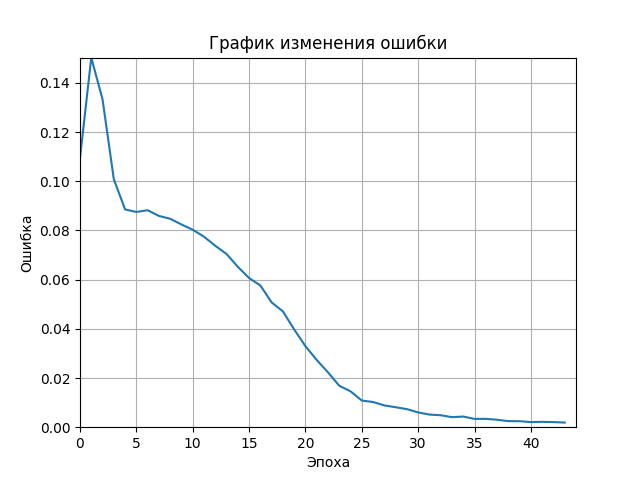
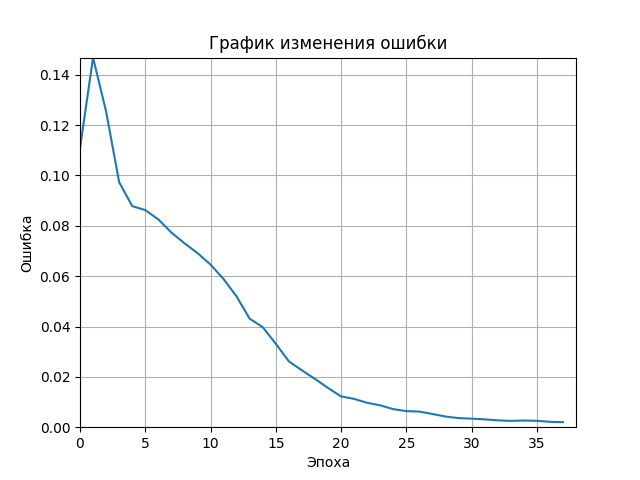
Создана командная строка для работы с нейронной сетью.

diff --git a/NeuralNet/src/Include/Input.hpp b/NeuralNet/src/Include/Input.hpp
@@ -2,10 +2,8 @@
 
 #include "Library.hpp"
 
-#define SET_WEIGHTS 0
-
 Net::fmatrix weights =
 {
-	{0.0888453, 0.0329869, 0.0607932, -0.020124, 0.0598727, 0.0228184, -0.0419006, -0.0369425, -0.0903802, 0.0085395, 0.0134751, 0.0693822, -0.0163551, -0.060846, 0.0292375, 0.0176919, -0.00281952, 0.0797452, -0.0327591, -0.0568715, -0.0476399, 0.0638542, -0.100842, 0.0157974, -0.0713388, -0.00536165, 0.061857, -0.052978, 0.0915369, 0.0944295, -0.0881988, -0.00676353, -0.0109027, 0.0743151, -0.0399984, 0.0464306, -0.0330085, 0.049703, 0.0492345, 0.102736, 0.0329486, 0.0839312, 0.0646352, -0.0107225, -0.0871174, -0.00661559, 0.089704, 0.0180297, 0.047035, -0.0578452, -0.0218603, -0.0107487, 0.0190821, 0.0594622, 0.0556629, -0.0457566, 0.0019462, 0.105129, -0.0452884, 0.0516091, 0.106399, 0.0730708, -0.0556239, 0.0939549, 0.0720605, -0.0594657, 0.088908, 0.0429764, -0.047495, -0.0953909, 0.083087, -0.080947, -0.0195497, -0.00296714, -0.0715632, -0.091477, 0.0480926, 0.0637178, 0.117428, -0.0997601, -0.034981, -0.0179209, 0.0118343, 0.0698328, 0.0980132, 0.0574274, 0.0730834, 0.101035, 0.0659213, 0.037005, -0.0655474, 0.0652924, 0.0338094, -0.0652138, 0.0149846, 0.0473617, -0.101213, 0.0578417, -0.0798616, -0.0767931, -0.0288222, -0.0801833, 0.0879771, 0.0712562, -0.00135013, -0.0251777, -0.0874942, -0.00893328, 0.0939102, -0.0467411, 0.0798503, 0.0382085, 0.0672034, -0.02718, -0.0535025, 0.0468324, 0.028788, 0.0486016, -0.0507849, 0.00809492, 0.101413, 0.00969674, 0.0216929, -0.103096, 0.00675225, 0.028756, 0.0564186, -0.0170569, -0.0138907, -0.0686176, 0.0367757, -0.0119586, -0.0429356, -0.0411139, -0.0109077, 0.0181163, -0.0414344, 0.0229514, -0.00568599, -0.0901155, -0.0895219, 0.00759843, -0.0419476, 0.0582083, 0.0336177, 0.00522175, 0.0280464, -0.087124, -0.0882843, -0.0237492, 0.0925998, 0.0592185, 0.0368746, 0.0915896, -0.0991602, -0.0960722, -0.0662153, 0.0975093, 0.0703328, -0.00228043, -0.0885113, 0.0398539, -0.211783, 0.105472, 0.191318, 0.257926, -0.0178655, 0.233272, 0.0422627, 0.047753, 0.122209, 0.116399, 0.0559875, 0.141157, 0.112385, 0.184378, -0.172941, 0.0333127, -0.13881, 0.102661, -0.399371, 0.211874, -0.503642, 0.129846, 0.172311, 0.404851, 0.0220201, 0.400091, -0.00887439, 0.0379063, 0.244549, 0.420148, -0.115449, 0.467662, -0.0211, 0.187527, -0.596403, 0.128751, -0.436965, 0.267904, -0.046511, -0.136161, 0.0531668, -0.141105, -0.118762, -0.0598734, -0.148284, 0.0152859, -0.114657, -0.0704235, -0.0334208, 0.0221052, -0.125806, -0.0294351, -0.0269745, -0.151987, 0.0433112, -0.113915, -0.0875715, -0.02222, -0.409466, 0.178833, -0.459339, 0.283658, 0.178561, 0.404353, 0.0487321, 0.302336, 0.0854233, 0.0886025, 0.179692, 0.40478, -0.0512187, 0.480353, 0.0403281, 0.240245, -0.407266, -0.0171101, -0.29054, 0.141695, -0.108126, 0.0193892, -0.0949606, 0.0803524, -0.00200323, 0.210617, -0.0661663, 0.17353, 0.0138894, 0.0635211, 0.0160346, 0.0530802, 0.0321002, 0.0684054, 0.0167811, 0.142881, -0.105284, 0.0971503, -0.111713, 0.156565, 0.00816487, 0.0157025, -0.131921, -0.0315682, -0.075454, 0.0682839, -0.123594, 0.0750578, -0.0212048, -0.0274487, 0.0209047, -0.0693621, 0.0503138, -0.0182358, -0.0717414, -0.0911757, -0.080817, -0.0168403, -0.0225555, 0.0557204, -0.0870592, 0.0194896, -0.0841034, 0.0753372, -0.0170845, -0.0288023, -0.0169519, -0.068146, -0.0130244, 0.0744091, -0.0708996, -0.0338883, -0.0358839, 0.0761673, -0.0692684, -0.0840077, -0.0944454, 0.0885158, 0.0496873, 0.0714267, -0.410157, 0.254123, -0.655122, 0.146174, 0.175712, 0.416591, 0.000433858, 0.549618, -0.0302471, 0.0702123, 0.306425, 0.413793, -0.015918, 0.567284, -0.0593731, 0.144701, -0.642619, 0.0803886, -0.374348, 0.343401, 0.480031, -0.32254, 0.531409, -0.345814, -0.330794, -0.477297, -0.167357, -0.465368, -0.0288917, -0.241338, -0.338702, -0.389541, -0.0744826, -0.444006, -0.0445143, -0.201298, 0.476228, -0.163836, 0.263292, -0.355371, -0.0853871, 0.0324509, -0.0303767, 0.00302216, -0.0484793, 0.107279, 0.0041402, 0.0971166, 0.0203445, -0.00958371, 0.048435, -0.013642, 0.0438898, 0.0771389, -0.0290997, 0.059604, -0.125239, -0.0841035, -0.110439, -0.0811215, 0.34762, -0.236807, 0.516427, -0.188105, -0.149584, -0.421678, -0.124036, -0.403811, -0.0264702, -0.0549043, -0.341497, -0.358928, 0.0164843, -0.363865, 0.036235, -0.127685, 0.502723, -0.213657, 0.29479, -0.214531, -0.445295, 0.25378, -0.612237, 0.161577, 0.281405, 0.482149, -0.0446474, 0.326657, 0.0661812, 0.0433405, 0.321268, 0.325235, 0.0198366, 0.489339, -0.0406036, 0.170133, -0.592569, 0.0208875, -0.415423, 0.300552, -0.10836, 0.0058409, -0.106245, -0.0320974, 0.0546686, -0.0246688, 0.0255291, -0.0354351, -0.00244779, -0.0540607, -0.0455169, 0.0530227, 0.0125012, 0.047331, -0.0929651, 0.0870971, -0.0975992, 0.0058989, -0.0659095, 0.0798497, -0.062339, -0.00774837, 0.0965339, 0.00699092, -0.0239073, -0.0728767, -0.0479184, -0.00509234, 0.0163592, -0.0921448, -0.104723, 0.00875992, -0.0819766, -0.0970204, 0.0326102, 0.0730968, 0.0668003, 0.0338015, 0.0599394, -0.00304218, -0.0582473, -0.00728127, -0.00125304, -0.115871, 0.000546641, -0.0814791, -0.0915922, -0.053277, -0.170015, -0.0483734, 0.0686165, -0.0559309, -0.0182875, -0.00822468, -0.181357, -0.0752805, 0.0093776, -0.16634, 0.00905476, -0.0635141, -0.0391007, 0.0338339, -0.105181, -0.0300081, -0.057975, 0.110838, 0.0741279, -0.0124348, -0.0809584, -0.0185791, 0.0863766, 0.000140295, -0.0393741, 0.105383, 0.0256524, 0.00103879, -0.153058, -0.0763513, -0.0547766, 0.100889, 0.0681863, -0.0867921, 0.134804, 0.0843177, 0.0233656, 0.0209954, 0.078577, -0.0532626, -0.0671727, -0.046182, 0.043931, -0.0619549, -0.0510193, 0.0861876, -0.0334982, -0.0909381, -0.0152278, 0.101576, 0.0941588, -0.050176, -0.193231, -0.00968637, -0.113706, -0.0136482, 0.0351611, 0.115194, -0.0428482, 0.206262, 0.00550068, 0.0395539, -0.00741952, 0.184253, -0.0188004, 0.165887, 0.0172102, 0.102451, -0.0764934, 0.0204066, -0.168478, 0.158407, 0.0124685, 0.0404637, 0.0378095, -0.0654528, -0.0813472, -0.11573, -0.0542604, -0.0497974, -0.0400624, -0.0475394, -0.105915, 0.024125, -0.088482, -0.100515, -0.0940933, -0.0736858, -0.0173248, -0.0929635, 0.0861766, -0.0178657, 0.00292821, -0.00563352, 0.0855601, -0.0921451, 0.0197254, 0.0421412, -0.0577872, -0.0571721, -0.0541568, -0.0452515, 0.0265644, 0.0605159, -0.058496, -0.0306296, 0.0103272, 0.0678252, 0.00448779, -0.00482193, -0.0944346, -0.0410212, 0.58206, -0.234912, 0.629359, -0.260675, -0.332138, -0.478137, -0.0505989, -0.426694, -0.112215, -0.218049, -0.261171, -0.381348, -0.144191, -0.493646, -0.133659, -0.322151, 0.581495, -0.157091, 0.455154, -0.357356, -0.397266, 0.293115, -0.439037, 0.11353, 0.271105, 0.418164, -0.0708996, 0.423058, -0.0127493, 0.125542, 0.231599, 0.203237, -0.0520799, 0.313553, -0.00893574, 0.193582, -0.403705, -0.045178, -0.215593, 0.190898, 0.0893205, 0.026095, -0.106293, -0.0630157, -0.0333002, -0.0594797, 0.0255468, -0.0736447, 0.00386083, -0.0554424, -0.0436381, 0.0108357, -0.107051, 0.0863408, -0.0609942, -0.044546, 0.034579, -0.0925449, -0.0820402, -0.103263, 0.0924646, -0.02894, 0.0283185, 0.00637497, 0.0594279, -0.0136375, 0.022886, 0.0207154, -0.0692777, 0.00314112, -0.0825535, 0.0382754, 0.0181923, -0.0293369, -0.0676302, 0.0710084, 0.0889598, 0.088652, -0.0256802, 0.071734, -0.0506321, 0.046838, 0.0253956, -0.0632074, -0.00280867, 0.00850569, -0.0603849, 0.0723101, -0.0890519, -0.0297602, 0.022299, -0.0289199, -0.00934921, 0.0349343, 0.00535873, -0.01823, 0.0828984, -0.0590806, 0.107603, 0.111856, -0.434893, 0.323601, -0.664908, 0.248564, 0.306673, 0.57457, -0.12854, 0.37963, -0.055702, 0.0951841, 0.336249, 0.445904, -0.082093, 0.594826, -0.0124599, 0.228572, -0.541371, 0.0522944, -0.505726, 0.336522, 0.324315, -0.274481, 0.517412, -0.122774, -0.150807, -0.335434, -0.055886, -0.304063, -0.106054, -0.102161, -0.287767, -0.289339, 0.00953044, -0.415795, -0.123621, -0.194087, 0.534762, -0.0424078, 0.332624, -0.209185, 0.451021, -0.323232, 0.454327, -0.286818, -0.14901, -0.322855, -0.0516005, -0.268677, -0.0606078, -0.0806481, -0.329113, -0.341576, -0.129393, -0.31696, -0.0755499, -0.247737, 0.477414, -0.061868, 0.394614, -0.186139, 0.338901, -0.0623334, 0.384604, -0.0768086, -0.199703, -0.225166, 0.0222358, -0.225249, -0.0411897, -0.0857669, -0.11336, -0.217674, -0.112168, -0.248625, -0.148418, -0.0438854, 0.266468, -0.175357, 0.22649, -0.0967671, -0.0185531, 0.0011925, 0.0202181, -0.0425175, -0.0752229, 0.0337344, -0.195647, -0.0950805, -0.175944, -0.101743, -0.131276, -0.0956029, -0.0818586, -0.113159, -0.0876516, -0.0658592, 0.0425955, -0.168288, 0.0178889, -0.153352, -0.00733079, -0.0858936, -0.0586535, 0.00587095, -0.140074, -0.00435984, -0.062299, -0.0414182, -0.182049, -0.135999, -0.0883138, 0.0278799, -0.190612, 0.0315245, -0.125338, -0.0628652, -0.0701922, -0.0830899, 0.00874493, -0.0773163, -0.0263258, -0.159373, -0.0735476, -0.0890004, -0.142565, -0.0384362, -0.0570704, 0.0414416, -0.0691865, -0.222677, -0.114474, -0.0830254, -0.135551, -0.0929454, -0.147801, -0.0577109, -0.0636202, -0.0236108, 0.0271928, -0.0632738, 0.182674, -0.193577, 0.316329, -0.186725, -0.0326918, -0.201405, -0.0151613, -0.229136, -0.120258, -0.07793, -0.0346107, -0.217424, 0.0303206, -0.213883, -0.0938804, -0.185349, 0.338497, -0.107963, 0.294274, -0.17929, 0.371374, -0.211024, 0.259239, -0.155347, -0.254354, -0.386506, -0.0629723, -0.396392, -0.135854, -0.13997, -0.122522, -0.329256, 0.0015973, -0.299, -0.134617, -0.210719, 0.419631, -0.159946, 0.247049, -0.14718, 0.0273422, 0.0453255, 0.0573881, -0.0559766, 0.0384, 0.0587331, 0.061838, 0.00931902, 0.0764507, 0.0299697, -0.080643, 0.00100883, -0.0146682, -0.0190178, -0.0189175, 0.0412887, -0.0113347, 0.0443811, 0.0804805, 0.0127509, 0.0533188, -0.0516824, 0.0156884, 0.0945981, -0.0335555, -0.0141817, -0.0448049, 0.0655518, 0.0762851, 0.0611071, -0.0155812, 0.0698821, -0.0872299, 0.064274, -0.00646243, -0.0557743, 0.00389496, -0.036771, 0.0428028, -0.0288745, -0.0392543, -0.0254036, -0.0714072, 0.00765405, 0.0549582, -0.072222, -0.077274, -0.0765169, -0.0184686, 0.084793, -0.0519677, -0.00223315, -0.0402351, -0.0083917, -0.00871094, -0.0367161, -0.0482276, -0.0128311, -0.0657995, -0.050488, -0.0570477, -0.0161524, -0.110423, -0.036754, 0.050719, 0.134869, 0.0515461, 0.15197, 0.042661, 0.0825519, 0.137599, 0.158721, -0.0983563, 0.0840589, 0.0346137, 0.133952, -0.180682, 0.0839189, -0.0837417, 0.0229015, -0.00841522, -0.0366531, 0.055372, -0.0176972, 0.02369, -0.109383, 0.0475703, -0.0520458, 0.0372251, -0.106793, -0.000694819, 0.0144049, 0.0680378, -0.0636923, -0.0573091, -0.0945065, 0.032759, -0.0959871, 0.0448339, -0.0850844, 0.0682836, -0.0132186, -0.049564, -0.0353369, 0.0467807, 0.0261822, -0.133535, -0.0604852, 0.00151831, -0.0644657, -0.00389132, 0.0101737, -0.119677, -0.00874438, -0.0451363, -0.0238332, -0.0211069, -0.0877261, 0.0598734, -0.0883505, 0.0012465, -0.078982, 0.0319034, -0.057944, 0.000210764, -0.0644079, -0.0176284, -0.0031851, 0.0223781, -0.0615463, 0.03534, -0.107322, -0.0842903, 0.0587348, -0.0462792, 0.00911836, 0.0210752, -0.00339569, -0.0548502, 0.00803549},
-	{-16.475, 1.61022, 1.99611, 34.4514, -48.8673, -0.819213, -23.9288, -11.593, 2.70517, -11.9683, -2.87129, -0.641978, -11.5388, -11.1397, -0.735677, -13.5191, 33.0243, -1.67267, -2.63196, 9.42387, 0.0369617, -10.1485, 33.2181, -1.48451, 25.9349, -39.0249, -0.0603055, -23.3797, 39.041, -0.296799, -23.4175, 18.4754, -0.899496, 59.0288, -59.0951, -1.30822, -18.0978, 24.4086, 0.0712946, 41.102, -21.0069, -1.72427, 46.6753, -51.9459, -0.0477443, -70.4163, 61.2591, -0.672368, -8.99338, -23.7897, 2.59372, 22.0704, -31.4032, -0.230104, -21.7458, 36.3755, 1.69114, -28.192, 17.2234, -0.874323}
+	{0.0866762, -0.00792785, -0.0975798, -0.0785434, 0.0160742, -0.0477219, -0.0511323, 0.0902031, 0.0732728, -0.0513772, 0.0865228, -0.0515019, -0.0671272, -0.0505245, -0.03316, 0.0875438, -0.0255866, -0.00457727, 0.0251436, 0.138647, 0.0476982, -0.0274717, 0.111498, -0.0635629, -0.0490845, 0.0461052, 0.0240554, -0.0597974, 0.00565295, 0.0991803, 0.0651181, 0.0451909, -0.00830246, 0.0953912, -0.0143226, 0.022315, -0.00720639, 0.0811833, 0.0145478, 0.0789655, 0.104592, 0.0335671, 0.0293116, 0.0521393, 0.0202352, 0.00277552, -0.0537189, -0.0854954, 0.0201207, -0.00382206, 0.0109879, 0.0830101, 0.064561, -0.0787919, 0.0825191, 0.0934809, 0.0856944, -0.0493944, -0.0398271, -0.0754562, -0.0422659, 0.0502075, 0.0213038, 0.0357727, -0.0506139, 0.0799693, -0.0670098, -0.00721193, 0.116596, -0.045856, -0.00376268, -0.0820758, 0.0576883, -0.0368344, 0.0679203, 0.0801333, 0.012721, 0.055573, 0.0256795, 0.0409697, 0.056959, 0.0268674, 0.0796875, 0.0493065, -0.0447279, 0.0729896, -0.083911, -0.0589574, -0.0485805, 0.0105328, 0.0375815, -0.0610947, 0.0258591, 0.0594313, 0.00804859, -0.0473766, -0.0346565, 0.0932167, 0.116688, 0.0295391, 0.0466345, 0.0622039, 0.0224272, -0.0247162, -0.0665249, 0.0755896, -0.0323697, 0.0615843, -0.0749183, -0.00907565, 0.0507233, -0.0267185, -0.083273, -0.0344248, 0.10249, -0.0197111, -0.0819625, 0.0132332, -0.0441817, -0.0236327, 0.0523245, -0.0697749, 0.0188519, -0.0841022, 0.0791236, 0.0461455, 0.100218, -0.0478836, 0.114456, 0.00785827, 0.0162361, 0.0861071, -0.0360857, 0.0840756, 0.0782947, 0.060194, 0.00863855, -0.0179264, -0.0570995, -0.099412, -0.00849955, -0.0182204, 0.0963028, 0.0507728, -0.00210707, -0.00969862, 0.0857039, 0.00579364, -0.0529255, 0.00955859, 0.0161255, -0.0624801, 0.0167603, -0.00942724, 0.0642182, 0.0147564, 0.0449116, -0.072375, -0.0908131, -0.0548277, 0.0394569, 0.200323, 0.245159, 0.0595522, -0.00492004, 0.310799, 0.0839039, -0.129397, -0.358275, -0.242682, -0.314606, 0.285241, 0.336216, -0.780856, -0.292478, -0.209469, -0.234239, 0.109813, -0.18192, -0.640744, -0.0312026, 0.355739, 0.0821964, 0.037466, -0.232616, 0.361776, 0.0250198, -0.0130411, -0.115913, -0.38537, -0.32885, 0.397267, 0.138317, 0.222736, -0.33541, -0.299616, 0.060136, 0.27347, -0.110616, 0.097282, 0.0412095, -0.0972402, -0.124272, 0.0296733, -0.0624154, 0.0441652, -0.180363, -0.0943999, 0.0725166, -0.106188, -0.0226847, 0.0806647, -0.0810194, 0.0324514, 0.0189664, 0.112137, 0.0201486, -0.000465235, -0.126545, 0.0680508, -0.133577, 0.377623, 0.186577, 0.0722652, -0.165512, 0.347777, 0.0671499, -0.104445, -0.125526, -0.305234, -0.309068, 0.421405, 0.0446779, 0.263639, -0.321436, -0.319335, -0.00294748, 0.233784, -0.162893, 0.130506, -0.0159853, 0.0959856, 0.315265, -0.01483, 0.0538099, 0.119669, 0.0744082, -0.193736, -0.284994, -0.113708, -0.154729, 0.225343, 0.0746168, -0.56286, -0.260469, -0.193892, -0.158052, -0.0138222, -0.217488, -0.450156, 0.0433775, -0.0139982, -0.116579, -0.000670475, -0.0624342, -0.0089378, 0.0271549, -0.0665824, 0.058576, 0.0599151, -0.0523221, -0.0832575, -0.070407, 0.0482867, 0.0144472, -0.0624573, 0.112721, -0.0612021, 0.0504372, 0.208765, -0.0808062, 0.097698, 0.0466683, -0.0745585, 0.0632179, -0.052584, 0.0521898, 0.0168246, -0.0441655, -0.101137, 0.0332857, 0.0610734, -0.0283959, -0.0142506, -0.0188386, 0.0122897, -0.00513667, -0.0267948, 0.0463119, -0.049509, 0.0143905, 0.34652, 0.145474, 0.107855, -0.124081, 0.466734, -0.0151589, -0.192878, -0.19264, -0.419318, -0.31571, 0.554748, 0.104842, 0.134813, -0.237051, -0.413426, 0.130379, 0.204471, -0.204773, 0.00720854, -0.0103811, -0.307902, -0.30554, -0.234561, 0.272253, -0.446316, -0.103694, 0.0417102, 0.28718, 0.31367, 0.317484, -0.468452, -0.117955, -0.151594, 0.208796, 0.183265, -0.131849, -0.259221, -0.0533793, -0.14924, 0.0366489, 0.0631523, 0.0663916, 0.103864, -0.0351811, -0.0813283, 0.0819092, -0.0191263, 0.0592765, 0.0618519, 0.0750178, -0.0270211, 0.051832, 0.126197, 0.0764747, -0.0533364, 0.0117782, 0.0149116, -0.0727805, -0.00418814, -0.0571531, -0.338476, -0.126004, -0.0634394, 0.0728777, -0.349782, -0.0297775, -0.0258293, 0.317328, 0.158301, 0.180285, -0.245945, -0.0673536, -0.114239, 0.252295, 0.254014, -0.158578, -0.270307, -0.0549956, -0.137097, -0.11788, 0.254077, 0.0160952, 0.0396871, -0.121968, 0.396145, -0.130818, -0.0114062, -0.183111, -0.498797, -0.328383, 0.378602, -0.0748486, 0.395042, -0.099146, -0.345063, 0.0640081, 0.294254, -0.0454818, 0.231146, -0.0992704, 0.0994148, -0.0604865, 0.081409, 0.0666357, 0.0431528, -0.0274682, -0.0413835, 0.15488, 0.0103303, 0.0260499, -0.0155979, -0.0304333, 0.280484, -0.00535117, 0.0161112, 0.121853, 0.0432697, -0.0681849, 0.013949, 0.0717684, -0.0851833, -0.0548379, -0.0557472, -0.0527175, -0.107918, -0.0443159, -0.0570589, 0.0698844, 0.0141833, 0.0456437, -0.0829064, -0.00301583, 0.0563926, -0.034678, -0.0661171, 0.0364838, -0.0246512, 0.0559356, 0.00838378, -0.0296386, 0.024582, -0.0831316, -0.00318284, 0.0629536, 0.0325313, -0.0568268, -0.0568231, 0.0181012, -0.0868527, -0.0378821, 0.122524, -0.0466757, 0.189618, 0.0911208, 0.0197008, -0.0927871, 0.063142, -0.033046, 0.116082, 0.0161494, -0.0444934, -0.0587366, 0.0287475, 0.00324071, 0.0190304, -0.0851523, -0.0556648, 0.138106, -0.147097, -0.0106811, 0.0201928, -0.0780301, 0.189746, -0.0343848, -0.0369955, 0.0805828, 0.103816, -0.0465659, 0.328869, 0.0959667, 0.083556, -0.0930927, -0.0776776, 0.0162021, -0.0419935, -0.0442106, 0.0255548, 0.0984535, -0.0334093, -0.0296876, 0.0407326, 0.0718025, 0.122183, -0.0423188, 0.0993623, 0.0568657, 0.0786579, 0.105339, 0.0891558, -0.100526, 0.128562, 0.0557595, 0.11108, -0.0567332, 0.165228, 0.0146146, -0.0153412, -0.0238636, -0.00851064, -0.0090347, 0.109116, 0.100901, 0.0580763, -0.0355179, -0.0821143, -0.0840642, 0.0960814, -0.00199039, 0.0744989, 0.0166823, 0.000371878, 0.00628812, 0.0683477, 0.0691937, -0.074758, -0.0768097, -0.0482982, -0.0976552, -0.0272905, -0.094928, -4.29394e-05, 0.189285, 0.0270015, -0.0505899, -0.00631259, -0.0547526, -0.0677529, -0.0515933, -0.254701, -0.0494364, -0.0962193, 0.0190688, -0.0804981, 0.0328275, -0.000813957, -0.0849077, -0.0205391, 0.0303751, -0.0172585, -0.0236969, 0.0441721, 0.059234, -0.0538939, -0.045883, -0.0599186, -0.00689574, 0.0862057, 0.0024758, 0.0038345, 0.0832285, -0.280272, -0.241041, -0.181165, 0.269656, -0.484917, -0.175155, 0.0910164, 0.371059, 0.406219, 0.354156, -0.431547, 0.00766353, -0.134413, 0.27424, 0.399771, -0.197517, -0.306113, 0.004072, 0.00867412, 0.0199531, 0.225257, 0.0209763, 0.043999, -0.144991, 0.41976, 0.0150677, -0.12359, -0.134827, -0.292227, -0.196114, 0.451122, 0.0258337, 0.251425, -0.280148, -0.307493, 0.102482, 0.263046, -0.104795, 0.0212229, 0.0612849, 0.0166097, -0.00700271, 0.00601172, 0.0242269, -0.0135868, 0.0651669, -0.0195271, -0.0637281, -0.0546374, -0.116381, 0.0393089, 0.0952291, -0.0750392, 0.0791238, -0.0684623, 0.0883473, -0.046275, -0.078986, -0.0919576, -0.0688895, -0.0136018, -0.0132156, 0.0783353, 0.0804111, -0.0239043, 0.0768341, -0.114302, -0.132251, 0.0588675, -0.0111649, -0.0412612, 0.0492334, -0.240385, -0.029122, -0.00567707, 0.00800778, 0.000446689, -0.0381732, -0.167505, -0.00218123, -0.028044, 0.0532026, 0.0292836, 0.0605958, 0.0351693, -0.00317725, 0.0804416, 0.0306914, 0.0346778, 0.0121271, 0.103841, 0.0962415, 0.0675376, 0.0174673, -0.0114598, 0.028401, 0.0694978, 0.0906741, 0.0322072, -0.108385, 0.263928, 0.22585, 0.14027, -0.160481, 0.449451, 0.0717183, -0.150037, -0.168828, -0.418938, -0.445889, 0.559501, 0.145467, 0.249546, -0.339952, -0.412164, 0.114581, 0.156466, -0.0925762, 0.01798, 0.013498, -0.214736, -0.267301, -0.117466, 0.147852, -0.229929, -0.0765677, 0.0242622, 0.24991, 0.272304, 0.179639, -0.288247, -0.065683, -0.159524, 0.29826, 0.339676, -0.052415, -0.184851, 0.125013, -0.100547, 0.00359759, -0.279628, -0.262242, -0.187061, 0.227909, -0.233391, 0.0209457, 0.00632158, 0.213359, 0.3635, 0.169002, -0.350023, -0.0516415, -0.159296, 0.241094, 0.324786, -0.16566, -0.258804, 0.0416696, -0.0955344, 0.0114595, -0.0102559, 0.164928, -0.23007, 0.205724, -0.0725772, 0.117682, -0.148777, -0.14334, 0.126248, 0.0409057, -0.222946, 0.256628, -0.989321, 0.00450087, 0.0779769, -0.361581, -0.0967735, -0.0906457, -0.744176, 0.0513568, 0.0544713, -0.157035, -0.0955443, 0.0717355, 0.0627143, -0.122863, -0.0574966, -0.0396214, -0.0276628, -0.00141836, 0.0579931, 0.157395, -0.105629, -0.0883119, 0.0192949, -0.130873, -0.04574, -0.142888, -0.0422962, -0.000969142, -0.0819604, -0.229653, -0.0290105, -0.00811747, -0.134134, -0.206367, -0.0859013, 0.200654, -0.0140087, 0.00836773, -0.070393, -0.0773518, 0.18416, -0.0128996, 0.0439267, -0.0616415, -0.10911, -0.0706251, 0.0620099, -0.0764479, 0.0424315, -0.150828, -0.0698105, 0.0893981, 0.0102445, -0.0193152, 0.0154961, 0.0816621, 0.00638319, 0.0796076, -0.0798368, -0.0271105, 0.0580848, -0.0751012, -0.139857, -0.104469, -0.109328, -0.0719705, 0.16906, 0.0313416, -0.0674978, 0.246565, -0.160813, 0.191738, -0.0720227, -0.0252685, -0.227734, -0.150018, 0.0845691, -0.000400662, -0.159813, 0.359248, -1.00803, -0.173527, 0.0680214, -0.463127, -0.141467, -0.19908, -0.621725, -0.0572689, -0.162641, -0.153493, -0.0400367, 0.25607, -0.328826, -0.00412786, -0.0954528, 0.199211, 0.213603, 0.192696, -0.40451, -0.0377454, -0.230142, 0.192153, 0.248012, -0.149682, -0.149614, 0.0243793, -0.148292, 0.00618, -0.0141079, -0.0440853, -0.0311233, 0.0797928, -0.0890095, 0.00788859, 0.0770159, 0.127303, 0.122526, 0.0491964, 0.00801647, 0.0369554, 0.105538, -0.0240856, -0.00216016, -0.046672, -0.0748014, -0.0715021, 0.00149377, -0.0118226, 0.0950926, -0.0211248, 0.00929722, -0.00359979, 0.0242053, -0.0623014, 0.0579703, -0.0890606, -0.023883, -0.107247, 0.0697699, -0.0485313, 0.099436, 0.0514092, -0.0823213, -0.0615702, 0.0241285, -0.0025527, -0.132429, 0.0074238, -0.0911437, 0.00337884, -0.0267075, 0.00459531, 0.0561586, 0.00524737, 0.0355186, -0.0924041, 0.00344977, 0.0244889, -0.0513179, -0.0668138, 0.0479642, 0.00571541, -0.0111825, -0.0515851, -0.067993, -0.0149567, 0.0766428, 0.0101315, 0.0859245, -0.029065, 0.124598, -0.0279419, 0.0708129, -0.0935073, 0.0214813, -0.0997126, -0.00887444, -0.0387301, 0.00602779, 0.0872305, -0.0111459, -0.018855, -0.0340624, -0.0598534, -0.0373374, 0.112735, 0.0348348, 0.042864, 0.052759, -0.0457831, 0.00251609, 0.0799351, -0.0814976, 0.0514252, 0.0765519, 0.144912, -0.099681, 0.0106884, 0.0580893, -0.11888, 0.119296, -0.0494535, -0.00589789, -0.0295912, -0.0551733, -0.0818144, 0.185215, 0.0628457, 0.0296838, -0.146031, 0.0529039, -0.114435, -0.0634056, -0.108948, -0.00784633, 0.107435, -0.0400479, 0.12358, -0.0147707, -0.0870452, -0.0432346, 0.0695994, -0.0747104, -0.00227657, -0.0481893, 0.0467584, 0.0792283, -0.0152442, -0.101231, 0.0761193, 0.0482514, -0.0610503, 0.0439288, -0.0646631, -0.0698863, -0.0822562, 0.0258928, 0.0126443, -0.0306599, -0.0192794, -0.0320676, 0.0347701, -0.0366332, 0.0460992, -0.0665582, -0.0807431, 0.0594551},
+	{-0.97772, 0.150457, 0.188702, -0.984914, 1.31785, -0.964465, -0.950664, 1.08319, -0.936736, 0.431719, -0.612681, -0.370004, -1.95053, 0.436037, 0.898874, -0.306106, 1.50742, -1.7451, -1.04491, 0.658774, -0.155196, 0.640255, -1.09552, 0.194721, 0.393104, -1.93592, 1.02782, -0.875737, -1.15426, 1.24777, -0.615074, -1.17051, 1.10548, -0.530323, 1.70512, -1.72434, -1.98707, 1.54432, -0.0384024, 4.386, -3.87168, -0.66629, -0.155006, -1.38667, 0.976861, -0.732154, -1.1647, 1.37602, 1.54251, -1.51473, -0.402877, 0.116092, 0.26691, -0.907588, 0.562026, -1.05062, 0.236724, 3.46224, -3.55669, -0.157687}
 };

diff --git a/NeuralNet/src/main.cpp b/NeuralNet/src/main.cpp
@@ -8,85 +8,134 @@
 
 int main()
 {
-	auto train_sets = Net::get_train_set("train\\");
-
 	// Кол-во нейронов во входном слое, Кол-во промеж. слоёв, 
 	// Кол-во нейронов в промеж. слое, Кол-во нейронов в выходном слое
 	NeuralNet nn(49, 1, 20, 3);
-	Monitoring mon(&nn, "Figures 2.0");
+	Monitoring mon(&nn, "Figures 2.0");  // Объект системы мониторинга
 
 	constexpr size_t max_epochs = 15000;  // Кол-во эпох тренировки
 	constexpr float  min_error  = 0.002f; // Цель ошибки
 
-#if SET_WEIGHTS == 1
-	nn.set_weights(weights);
-#endif // SET_WEIGHTS
+	float out_val = 0.0f;		// Ошибка
+	Net::train_set train_sets;  // Датасет для тренировки
+	Net::fmatrix res;			// Результаты прогона
 
-	float out_val = 1.0f;
-	Net::fmatrix res;
-	res.reserve(train_sets.first.size());
+	std::string cmd;						 // Текущая команда
+	std::future<Net::train_set> worker;		 // Загрузка датасета в отдельном потоке
+	std::vector<std::future<void>> workers;  // Сохранение результатов
+	bool is_set_loaded = false;				 // Флаг загрузки датасета
+	bool is_net_trained = false;			 // Флаг тренировки
+	bool is_weights_set = false;			 // Флаг установки весов
 
-	// Засекаем время тренировки сети
-	mon.start();
-
-	size_t epoch;
-	for (epoch = 0; epoch < max_epochs; epoch++)
+	// Цикл программы
+	while (true)
 	{
-		if (out_val < min_error)
-		{
-			break;
-		}
-		
-		out_val = 0.0f;
-		res.clear();
+		std::cout << "cmd>";
+		std::getline(std::cin, cmd);
 
-		for (size_t i = 0; i < train_sets.first.size(); i++)
+		if (cmd == "load set")  // Загрузка датасета
 		{
-			nn.train(train_sets.first[i], train_sets.second[i]);
-			res.push_back(nn.get_result());
-		}
+			std::cout << "cmd>load set>";
+			std::getline(std::cin, cmd);
 
-		for (size_t i = 0; i < train_sets.second.size(); i++)
+			worker = std::async(std::launch::async, &Net::get_train_set, cmd + std::string("\\"));
+
+			is_set_loaded = true;
+		}
+		else if (cmd == "train")  // Тренировка сети
 		{
-			for (size_t k = 0; k < train_sets.second[0].size(); k++)  // Размер вых. слоя
+			if (!is_set_loaded)
 			{
-				out_val += pow(res[i][k] - train_sets.second[i][k], 2);
+				std::cout << "Load train set!" << "\n";
+				continue;
 			}
+
+			train_sets = worker.get();
+			res.reserve(train_sets.first.size());
+
+			// Засекаем время тренировки сети
+			mon.start();
+
+			size_t epoch;
+			for (epoch = 0; epoch < max_epochs; epoch++)
+			{
+				if (epoch != 0 && out_val < min_error)
+				{
+					break;
+				}
+
+				out_val = 0.0f;
+				res.clear();
+
+				for (size_t i = 0; i < train_sets.first.size(); i++)
+				{
+					nn.train(train_sets.first[i], train_sets.second[i]);
+					res.push_back(nn.get_result());
+				}
+
+				for (size_t i = 0; i < train_sets.second.size(); i++)
+				{
+					for (size_t k = 0; k < train_sets.second[0].size(); k++)  // Размер вых. слоя
+					{
+						out_val += pow(res[i][k] - train_sets.second[i][k], 2);
+					}
+				}
+
+				out_val = out_val / (train_sets.second.size() * 3);
+				mon.get_error(out_val);
+			}
+
+			// Получаем для мониторинга кол-во эпох
+			mon.get_epoch(epoch);
+
+			// Конец счёта времени тренировки сети
+			mon.end();
+
+			is_net_trained = true;
 		}
-		
-		out_val = out_val / (train_sets.second.size() * 3);
-		mon.get_error(out_val);
-	}
-
-	// Получаем для мониторинга кол-во эпох
-	mon.get_epoch(epoch);
-
-	// Конец счёта времени тренировки сети
-	mon.end();
-
-	std::cout << "Validation test:" << '\n';
-
-	res.clear();
-	for (size_t i = 0; i < train_sets.first.size(); i++)
-	{
-		nn.run(train_sets.first[i]);
-		res.push_back(nn.get_result());
-	}
-
-	for (size_t i = 0; i < train_sets.second.size(); i++)
-	{
-		std::cout << "Train set N_" << i << "\n";
-		for (size_t j = 0; j < train_sets.second[0].size(); j++)  // Размер вых. слоя
+		else if (cmd == "validate")  // Валидация сети
 		{
-			std::cout << "Expected: " << train_sets.second[i][j] << " -> Actual: " << res[i][j] << '\n';
+			if (!is_net_trained && !is_weights_set)
+			{
+				std::cout << "Net is not trained OR Weights were not set!" << "\n";
+				continue;
+			}
+			else if (is_weights_set)
+			{
+				train_sets = worker.get();
+				workers.clear();
+			}
+
+			std::cout << "Validation test:" << '\n';
+
+			res.clear();
+			for (size_t i = 0; i < train_sets.first.size(); i++)
+			{
+				nn.run(train_sets.first[i]);
+				res.push_back(nn.get_result());
+			}
+
+			for (size_t i = 0; i < train_sets.second.size(); i++)
+			{
+				std::cout << "Train set N_" << i << "\n";
+				for (size_t j = 0; j < train_sets.second[0].size(); j++)  // Размер вых. слоя
+				{
+					std::cout << "Expected: " << train_sets.second[i][j] << " -> Actual: " << res[i][j] << '\n';
+				}
+
+				std::cout << "\n";
+			}
+
+			workers.push_back(std::async(std::launch::async, &Monitoring::save, &mon));
+			workers.push_back(std::async(std::launch::async, &Monitoring::save_weights, &mon));
+			workers.push_back(std::async(std::launch::async, &Monitoring::save_report, &mon));
 		}
-
-		std::cout << "\n";
+		else if (cmd == "set w")  // Установка весов
+		{
+			is_weights_set = true;
+			nn.set_weights(weights);
+		}
 	}
-
-	mon.save();
-	mon.save_weights();
-	mon.save_report();
 
 	return 0;
 }

diff --git a/NeuralNet/src/Source/Library.cpp b/NeuralNet/src/Source/Library.cpp
@@ -33,6 +33,7 @@ namespace Net
 		std::vector<std::string> lines;
 		lines.reserve(500);
 		
+		// DANGER ERROR PATH
 		for (const auto& entry : std::filesystem::directory_iterator(path))
 		{
 			file.open(entry.path().string());
